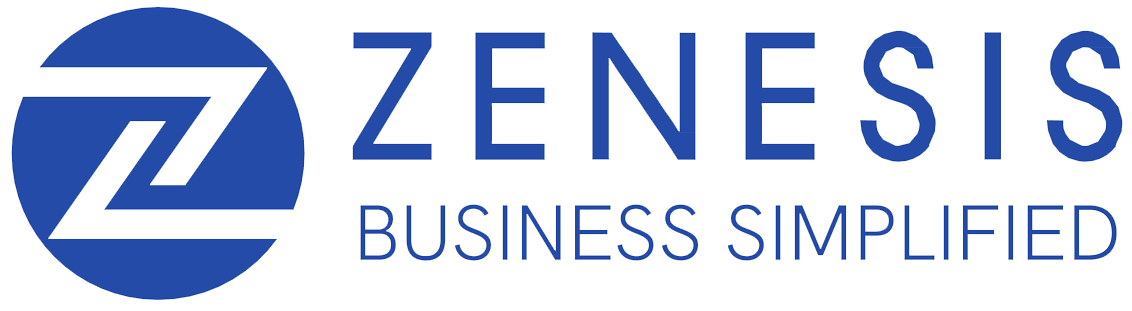
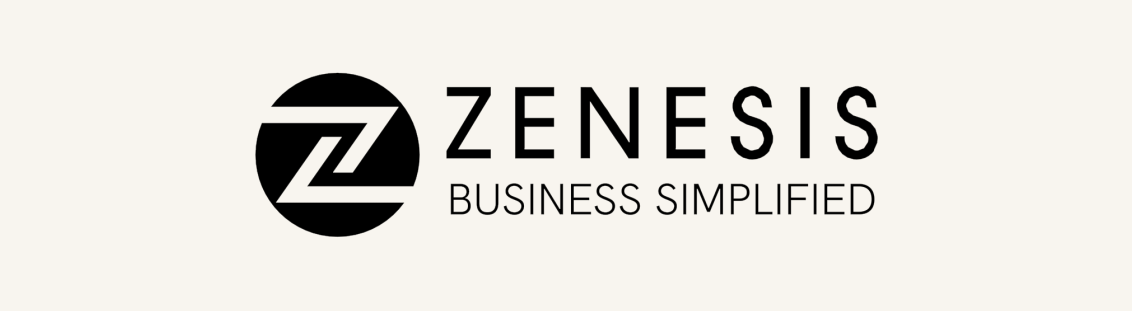
Refine service cards and metadata branding

diff --git a/src/components/homepage-service-tile.tsx b/src/components/homepage-service-tile.tsx
@@ -2,29 +2,25 @@ import Link from "next/link";
 
 type HomepageServiceTileProps = {
   title: string;
-  description: string;
+  description?: string;
   href?: string;
 };
 
 export function HomepageServiceTile({
   title,
-  description,
   href,
 }: HomepageServiceTileProps) {
   const content = (
     <>
       <div className="min-w-0 flex-1">
-        <p className="text-[1.1rem] font-bold leading-6 tracking-[-0.03em] text-white md:text-[1.15rem]">
+        <p className="text-[1.08rem] font-semibold leading-[1.2] tracking-[-0.03em] text-[#07151b] md:text-[1.14rem]">
           {title}
-        </p>
-        <p className="mt-1.5 max-w-[34ch] text-[0.96rem] font-medium leading-6 text-white/82 md:text-[0.98rem]">
-          {description}
         </p>
       </div>
       {href ? (
         <span
           aria-hidden="true"
-          className="mt-0.5 inline-flex h-9 w-9 shrink-0 items-center justify-center rounded-full border border-white/12 bg-white/8 text-[1rem] text-white/78 transition-transform duration-200 group-hover:translate-x-0.5 group-hover:text-white"
+          className="inline-flex h-7 w-7 shrink-0 items-center justify-center rounded-full border border-[#8d7453]/24 bg-white/65 text-[1rem] text-[#8d7453] transition-all duration-200 group-hover:translate-x-0.5 group-hover:border-[#8d7453]/38 group-hover:bg-white group-hover:text-[#07151b]"
         >
           →
         </span>
@@ -36,15 +32,23 @@ export function HomepageServiceTile({
     return (
       <Link
         href={href}
-        className="group flex min-h-[7rem] w-full items-start gap-4 rounded-[1.15rem] border border-[#20363f] bg-[linear-gradient(180deg,#173039_0%,#11232a_100%)] px-4 py-4 text-left shadow-[0_12px_28px_rgba(17,35,42,0.12)] transition-all duration-200 hover:-translate-y-0.5 hover:border-[#244ba8]/32 hover:bg-[linear-gradient(180deg,#1a3640_0%,#132830_100%)] md:min-h-[7.1rem] md:px-4.5"
+        className="group relative flex min-h-[3.7rem] w-full items-center gap-3 overflow-hidden rounded-[999px] border border-[#d8c3a2]/68 bg-[linear-gradient(180deg,#f6ead4_0%,#ecd6b0_100%)] px-3.5 py-2 text-left shadow-[0_10px_24px_rgba(141,116,83,0.14)] transition-all duration-200 hover:-translate-y-0.5 hover:border-[#c9ae81] hover:bg-[linear-gradient(180deg,#f8efdc_0%,#eddab9_100%)] hover:shadow-[0_16px_32px_rgba(141,116,83,0.18)] md:min-h-[3.85rem] md:px-4"
       >
+        <span
+          aria-hidden="true"
+          className="absolute left-0 top-0 h-full w-9 rounded-r-[1.2rem] bg-[linear-gradient(90deg,rgba(216,195,162,0.32),rgba(216,195,162,0))]"
+        />
         {content}
       </Link>
     );
   }
 
   return (
-    <div className="flex min-h-[7rem] w-full items-start gap-4 rounded-[1.15rem] border border-[#20363f] bg-[linear-gradient(180deg,#173039_0%,#11232a_100%)] px-4 py-4 text-left shadow-[0_12px_28px_rgba(17,35,42,0.12)] md:min-h-[7.1rem] md:px-4.5">
+    <div className="relative flex min-h-[3.7rem] w-full items-center gap-3 overflow-hidden rounded-[999px] border border-[#d8c3a2]/68 bg-[linear-gradient(180deg,#f6ead4_0%,#ecd6b0_100%)] px-3.5 py-2 text-left shadow-[0_10px_24px_rgba(141,116,83,0.14)] md:min-h-[3.85rem] md:px-4">
+      <span
+        aria-hidden="true"
+        className="absolute left-0 top-0 h-full w-9 rounded-r-[1.2rem] bg-[linear-gradient(90deg,rgba(216,195,162,0.32),rgba(216,195,162,0))]"
+      />
       {content}
     </div>
   );

diff --git a/src/components/homepage-service-visual.tsx b/src/components/homepage-service-visual.tsx
@@ -6,37 +6,44 @@ type HomepageServiceVisualVariant =
 
 type HomepageServiceVisualProps = {
   variant: HomepageServiceVisualVariant;
-};
-
-const visualNumbers: Record<HomepageServiceVisualVariant, string> = {
-  "business-setup": "01",
-  "accounting-tax": "02",
-  "corporate-support": "04",
-  "visa-and-banking": "03",
+  title: string;
 };
 
 export function HomepageServiceVisual({
   variant,
+  title,
 }: HomepageServiceVisualProps) {
-  const number = visualNumbers[variant];
+  const accentWidths: Record<HomepageServiceVisualVariant, string> = {
+    "business-setup": "w-20",
+    "accounting-tax": "w-16",
+    "visa-and-banking": "w-24",
+    "corporate-support": "w-18",
+  };
 
   return (
     <div
-      aria-hidden="true"
       className="relative h-full overflow-hidden bg-[radial-gradient(circle_at_top_left,rgba(216,195,162,0.18),transparent_28%),linear-gradient(145deg,#173039_0%,#11232a_58%,#0b1820_100%)]"
     >
       <div className="absolute inset-0 bg-[linear-gradient(180deg,rgba(255,255,255,0.04),transparent_44%)]" />
-      <div className="absolute right-6 top-6 h-px w-20 bg-[linear-gradient(90deg,rgba(216,195,162,0.55),rgba(216,195,162,0.04))]" />
-      <div className="absolute bottom-0 left-0 right-0 h-24 bg-[linear-gradient(180deg,transparent_0%,rgba(255,255,255,0.02)_100%)]" />
+      <div
+        className={`absolute left-6 top-6 h-px ${accentWidths[variant]} bg-[linear-gradient(90deg,rgba(216,195,162,0.55),rgba(216,195,162,0.04))]`}
+      />
+      <div className="absolute bottom-0 left-0 right-0 h-20 bg-[linear-gradient(180deg,transparent_0%,rgba(255,255,255,0.02)_100%)]" />
+      <div
+        aria-hidden="true"
+        className="absolute -right-6 top-1/2 h-20 w-20 -translate-y-1/2 rounded-full border border-white/8 bg-white/[0.03]"
+      />
+      <div
+        aria-hidden="true"
+        className="absolute right-7 top-1/2 h-12 w-px -translate-y-1/2 bg-[linear-gradient(180deg,rgba(216,195,162,0.04),rgba(216,195,162,0.48),rgba(216,195,162,0.04))]"
+      />
 
-      <div className="relative flex h-full items-end justify-between px-6 py-5 md:px-7 md:py-6">
-        <div className="flex items-end gap-3">
-          <span className="text-[5.8rem] font-semibold leading-none tracking-[-0.08em] text-white/[0.1] md:text-[6.6rem] xl:text-[5.3rem]">
-            {number}
-          </span>
-          <span className="mb-2 block h-10 w-px bg-[linear-gradient(180deg,rgba(216,195,162,0.05),rgba(216,195,162,0.55),rgba(216,195,162,0.05))]" />
+      <div className="relative flex h-full items-end px-6 py-5 md:px-7 md:py-6">
+        <div className="min-w-0">
+          <h3 className="whitespace-nowrap text-[1.78rem] font-medium leading-none tracking-[-0.055em] text-white [text-shadow:0_1px_0_rgba(255,255,255,0.04)] md:text-[2rem] xl:text-[1.72rem]">
+            {title}
+          </h3>
         </div>
-        <div className="mb-1 h-11 w-11 rounded-full border border-white/10 bg-white/[0.04]" />
       </div>
     </div>
   );

diff --git a/src/app/page.tsx b/src/app/page.tsx
@@ -12,7 +12,7 @@ import { HomepageServiceTile } from "@/components/homepage-service-tile";
 import { HomepageServiceVisual } from "@/components/homepage-service-visual";
 import { JsonLd } from "@/components/json-ld";
 import { ScrollReveal } from "@/components/scroll-reveal";
-import { CardAccent, SectionHeading, SiteShell } from "@/components/site-shell";
+import { SectionHeading, SiteShell } from "@/components/site-shell";
 import { TalkToZenesisPanel } from "@/components/talk-to-zenesis-panel";
 import {
   featuredProfile,
@@ -309,19 +309,11 @@ export default function Home() {
                     href={item.href}
                     className="group relative block h-[8.75rem] overflow-hidden md:h-[9.5rem] xl:h-[8.6rem]"
                   >
-                    <HomepageServiceVisual variant={item.visual} />
+                    <HomepageServiceVisual variant={item.visual} title={item.title} />
                   </Link>
 
                   <div className="flex grow flex-col p-4 sm:p-5 md:p-6 lg:p-7 xl:p-6">
-                    <div className="mb-5">
-                      <CardAccent />
-                      <Link href={item.href} className="group inline-block">
-                        <h3 className="text-[2.05rem] font-semibold leading-[0.95] tracking-[-0.05em] text-[#07151b] transition-transform duration-200 group-hover:-translate-y-0.5 md:text-[2.3rem] xl:text-[1.78rem] xl:whitespace-nowrap">
-                          {item.title}
-                        </h3>
-                      </Link>
-                    </div>
-                    <div className="grid grow gap-3 md:grid-cols-3 md:items-stretch xl:grid-cols-1 xl:gap-3">
+                    <div className="grid grow gap-2.5 md:grid-cols-3 md:items-stretch xl:grid-cols-1 xl:gap-2.5">
                       {item.offerings.map((offering) => {
                         return (
                           <HomepageServiceTile
@@ -338,10 +330,10 @@ export default function Home() {
                       })}
                     </div>
 
-                    <div className="mt-auto flex justify-center pt-5">
+                    <div className="mt-auto flex justify-center pt-4">
                       <Link
                         href={item.href}
-                        className="inline-flex w-full items-center justify-center gap-2 rounded-full bg-[#11232a] px-4 py-2.75 text-[0.96rem] font-semibold !text-white transition-transform duration-200 hover:-translate-y-0.5 hover:bg-[#18343d] md:w-auto xl:px-5 xl:text-[0.95rem]"
+                        className="inline-flex w-full items-center justify-center gap-2 rounded-full bg-[#11232a] px-4 py-2.5 text-[1rem] font-semibold !text-white transition-transform duration-200 hover:-translate-y-0.5 hover:bg-[#18343d] md:w-auto md:px-5 xl:text-[1.02rem]"
                       >
                         {item.cta}
                         <span aria-hidden="true">→</span>

diff --git a/src/app/search/page.tsx b/src/app/search/page.tsx
@@ -31,10 +31,7 @@ export default async function SearchPage({ searchParams }: SearchPageProps) {
       <section className="relative z-20 left-1/2 -mt-px w-screen -translate-x-1/2 overflow-visible border-b border-foreground/8 bg-[#f5efe4] pt-24 pb-10 md:pt-28 md:pb-12">
         <div className="mx-auto w-full max-w-[100rem] px-6 md:px-12 xl:px-20">
           <div className="max-w-[72rem] border-l-4 border-[#244ba8] pl-5 sm:pl-6 md:pl-7">
-            <p className="text-[0.82rem] font-semibold uppercase tracking-[0.18em] text-[#244ba8]">
-              Site Search
-            </p>
-            <h1 className="mt-5 max-w-[18ch] text-[3.2rem] font-semibold leading-[0.94] tracking-[-0.04em] text-foreground sm:text-[4rem] lg:max-w-[20ch] lg:text-[4.55rem]">
+            <h1 className="max-w-[18ch] text-[3.2rem] font-semibold leading-[0.94] tracking-[-0.04em] text-foreground sm:text-[4rem] lg:max-w-[20ch] lg:text-[4.55rem]">
               Search Zenesis
             </h1>
             <p className="mt-6 max-w-3xl text-[1.12rem] leading-8 text-muted md:text-[1.2rem] md:leading-9">
@@ -60,14 +57,14 @@ export default async function SearchPage({ searchParams }: SearchPageProps) {
       <section className="relative z-10 left-1/2 -mt-px w-screen -translate-x-1/2 bg-[#11232a] py-16 md:py-20">
         <div className="mx-auto w-full max-w-[100rem] px-6 md:px-12 xl:px-20">
           <SectionHeading
-            eyebrow={query ? "Results" : "Browse"}
+            eyebrow=""
             title={query ? "Matching pages" : "Suggested places to start"}
             description={
               query
                 ? "Results are pulled from top-level pages, service pages, the featured profile, and insight articles."
                 : "Use these common entry points if you are not sure where to begin."
             }
-            eyebrowClassName="text-white/68"
+            eyebrowClassName="hidden"
             titleClassName="text-white"
             descriptionClassName="text-white/92"
           />

diff --git a/src/components/site-shell.tsx b/src/components/site-shell.tsx
@@ -377,7 +377,7 @@ export function SiteShell({ children, currentPath }: SiteShellProps) {
               alt="Zenesis Corporation"
               width={300}
               height={72}
-              className="h-10 w-auto object-contain"
+              className="h-10 w-auto object-contain brightness-0 saturate-0"
             />
             <p className="mt-4 max-w-md text-[1.08rem] leading-8 text-foreground/78">
               Business setup, accounting and tax, and corporate support for
